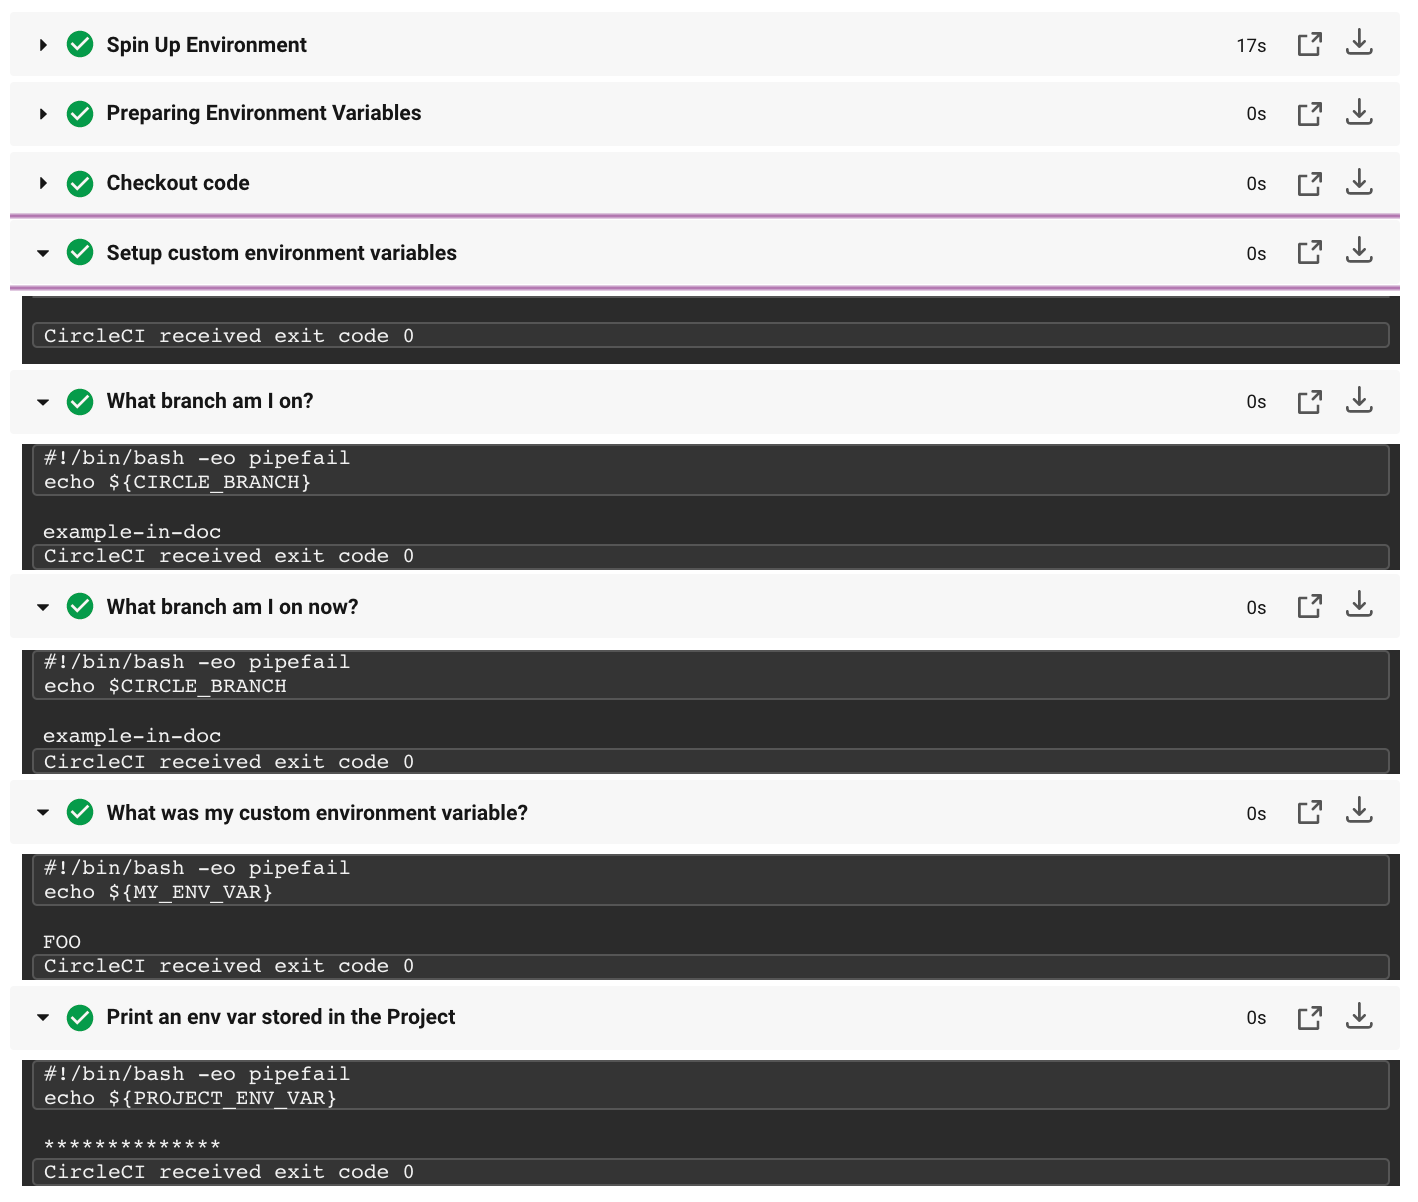
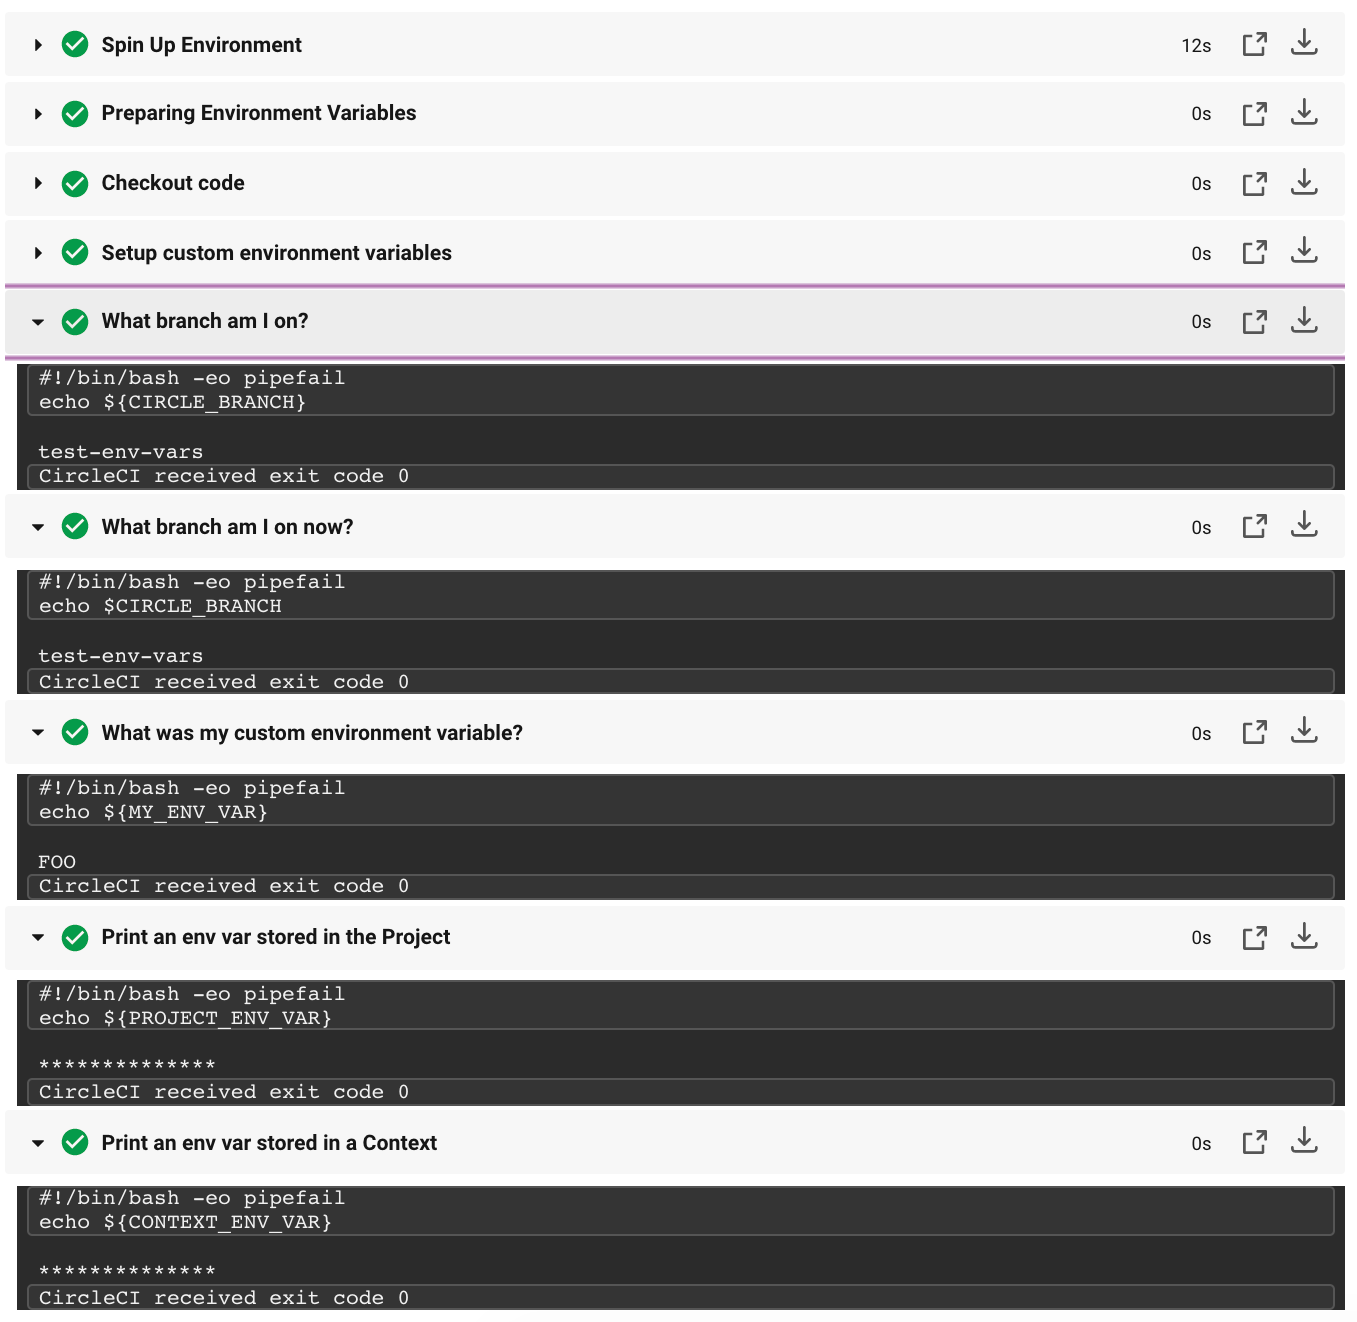
update full example to include a context

diff --git a/jekyll/_cci2/env-vars.md b/jekyll/_cci2/env-vars.md
@@ -19,13 +19,9 @@ There are several ways to use environment variables in CircleCI to provide varie
 
 To add **private keys** or **secret environment variables** for use throughout your private project, use the Environment Variables page under Project Settings in the CircleCI application. The variable values are neither readable nor editable in the app after they are set. To change the value of an environment variable, delete the current variable and add it again with the new value.
 
-![Environment Variables]({{ site.baseurl }}/assets/img/docs/project-settings-env-var-v2.png)
-
 Private environment variables enable you to store secrets safely even when your project is public, see [Building Open Source Projects]({{ site.baseurl }}/2.0/oss/) for associated settings information. 
 
 Use Contexts to further restrict access to environment variables. Contexts are set from the Organization Settings in the CircleCI application. For more information refer to the [Restricting a Context]({{ site.baseurl }}/2.0/contexts/#restricting-a-context) documentation.
-
-![Contexts]({{ site.baseurl }}/assets/img/docs/org-settings-contexts-v2.png)
 
 ## Secrets Masking
 
@@ -41,48 +37,6 @@ The value of the environment variable will not be masked in the build output if:
 ## Environment Variable Usage Options
 
 CircleCI uses Bash, which follows the POSIX naming convention for environment variables. Valid characters include letters (uppercase and lowercase), digits, and the underscore. The first character of each environment variable must be a letter.
-
-Secrets and private keys that are securely stored in the CircleCI app may be referenced with the variable in the following ways:
-
-* A `run` key
-
-  ```yaml
-  version: 2.1
-
-  workflows:
-    env-var-workflow:
-      jobs:
-        - env-var
-        
-  jobs:
-    env-var:
-      docker:
-        - image: cimg/base:2020.01
-      steps:
-        - checkout
-        - run: echo $MY_ENV_VAR # env var MY_ENV_VAR must be defined under Project Settings
-    ```
-
-* Workflows `context` key
-
-    ```yaml
-    version: 2.1
-
-    workflows:
-      env-var-workflow:
-        jobs:
-          - env-var:
-              context: Testing-Env-Vars # Use all env vars associated with this Context
-              
-          
-    jobs:
-      env-var:
-        docker:
-          - image: cimg/base:2020.01
-        steps:
-          - checkout
-          - run: echo $MY_ENV_VAR # env var MY_ENV_VAR must be defined under the context specified above
-    ```
 
 ### Order of Precedence
 {:.no_toc}
@@ -102,10 +56,11 @@ Environment variables declared inside a shell command `run step`, for example `F
 ![Env Var Order]({{ site.baseurl }}/assets/img/docs/env-var-order.png)
 
 #### Notes on Security
-Do not add secrets or keys inside the `.circleci/config.yml` file. The full text of `config.yml` is visible to developers with access to your project on CircleCI. Store secrets or keys in [project](#setting-an-environment-variable-in-a-project) or [context]({{ site.baseurl }}/2.0/contexts/) settings in the CircleCI app. For more information, see the [Encryption]({{ site.baseurl }}/2.0/security/#encryption) section of the Security document.
+{:.no_toc}
+
+Do not add secrets or keys inside the `.circleci/config.yml` file. The full text of `config.yml` is visible to developers with access to your project on CircleCI. Store secrets or keys in [project](#setting-an-environment-variable-in-a-project) or [context](#setting-an-environment-variable-in-a-context) settings in the CircleCI app. For more information, see the [Encryption]({{ site.baseurl }}/2.0/security/#encryption) section of the Security document.
 
 Running scripts within configuration may expose secret environment variables. See the [Using Shell Scripts]({{ site.baseurl }}/2.0/using-shell-scripts/#shell-script-best-practices) document for best practices for secure scripts.
-
 
 ### Example Configuration of Environment Variables
 {:.no_toc}
@@ -126,8 +81,7 @@ jobs: # basic units of work in a run
       # Redirect MY_ENV_VAR into $BASH_ENV
       - run: 
           name: "Setup custom environment variables"
-          command: |
-            echo 'export MY_ENV_VAR="FOO"' >> $BASH_ENV
+          command: echo 'export MY_ENV_VAR="FOO"' >> $BASH_ENV
       - run: # print the name of the branch we're on
           name: "What branch am I on?"
           command: echo ${CIRCLE_BRANCH}
@@ -142,11 +96,15 @@ jobs: # basic units of work in a run
       - run:
           name: "Print an env var stored in the Project"
           command: echo ${PROJECT_ENV_VAR}
+      - run:
+          name: "Print an env var stored in a Context"
+          command: echo ${CONTEXT_ENV_VAR}
 
 workflows: # a single workflow with a single job called build
   build:
     jobs:
       - build
+          context: Testing-Env-Vars
 ```
 
 The above `config.yml` demonstrates the following: 
@@ -160,10 +118,9 @@ When the above config runs, the output looks like this, notice the env var store
 
 ![Env Vars Interpolation Example]({{site.baseurl}}/assets/img/docs/env-vars-example-ui.png)
 
-You may have noticed that there are two similar steps in the above image and config - "What branch am I on?". These steps illustrate two different methods to read environment variables. Note that both `${VAR}` and `$VAR` syntaxes are supported. You can read more about shell parameter expansion in the [Bash documentation](https://www.gnu.org/software/bash/manual/bashref.html#Shell-Parameter-Expansion).
+Notice there are two similar steps in the above image and config - "What branch am I on?". These steps illustrate two different methods to read environment variables. Note that both `${VAR}` and `$VAR` syntaxes are supported. You can read more about shell parameter expansion in the [Bash documentation](https://www.gnu.org/software/bash/manual/bashref.html#Shell-Parameter-Expansion).
 
-### Using `BASH_ENV` to Set Environment Variables
-{:.no_toc}
+### Using Parameters and $BASH_ENV
 
 CircleCI does not support interpolation when setting environment variables. All defined values are treated literally. This can cause issues when defining `working_directory`, modifying `PATH`, and sharing variables across multiple `run` steps.
 
@@ -173,11 +130,26 @@ In the example below, `$ORGNAME` and `$REPONAME` will not be interpolated.
 working_directory: /go/src/github.com/$ORGNAME/$REPONAME
 ```
 
-**TODO: SWITCH THIS SECTION ROUND TO SHOW 2.1 AS THE BEST PRACTICE EXAMPLE**
+Using `version:2.1` config, you can reuse pieces of config across your  `config.yml`. By using the `parameters` declaration, you can interpolate (or, "pass values") into reusable `commands` `jobs` and `executors`:
 
-There are several workarounds to interpolate values into your config.
+```yaml
+version: 2.1
 
-If you are using **CircleCI 2.1**, you can reuse pieces of config across your  `config.yml`. By using the `parameters` declaration, you can interpolate (or, "pass values") into reusable `commands` `jobs` and `executors`. Consider reading the documentation on [using the parameters declaration]({{ site.baseurl }}/2.0/reusing-config/#using-the-parameters-declaration).
+jobs:
+  parameters:
+    org_name:
+      type: string
+      default: my_org
+    repo_name:
+      type: string
+      default: my_repo
+  my_job:
+    docker:
+      - circleci/node:12.15.0
+    working_directory: /go/src/github.com/<< parameters.org_name >>/<< parameters.repo_name >>
+```
+
+Consider reading the documentation on [using the parameters declaration]({{ site.baseurl }}/2.0/reusing-config/#using-the-parameters-declaration).
 
 Another possible method to interpolate values into your config is to use a `run` step to export environment variables to `BASH_ENV`, as shown below.
 
@@ -204,6 +176,8 @@ An image that's based on [Alpine Linux](https://alpinelinux.org/) (like [docker]
 To use environment variables with `ash`, just add these 2 parameters to your job.
 
 ```yaml
+version: 2.1
+
 jobs:
   build:    
     shell: /bin/sh -leo pipefail
@@ -216,7 +190,8 @@ jobs:
 While CircleCI does not support interpolation when setting environment variables, it is possible to set variables for the current shell by [using `BASH_ENV`](#using-bash_env-to-set-environment-variables). This is useful for both modifying your `PATH` and setting environment variables that reference other variables.
 
 ```yaml
-version: 2
+version: 2.1 
+
 jobs:
   build:
     docker:
@@ -240,7 +215,8 @@ For more information, refer to your shell's documentation on setting environment
 To set an environment variable in a step, use the [`environment` key]({{ site.baseurl }}/2.0/configuration-reference/#run).
 
 ```yaml
-version: 2
+version: 2.1
+
 jobs:
   build:
     docker:
@@ -264,7 +240,8 @@ to be accessible in more than one step, export the value [using `BASH_ENV`](#usi
 To set an environment variable in a job, use the [`environment` key]({{ site.baseurl }}/2.0/configuration-reference/#job_name).
 
 ```yaml
-version: 2
+version: 2.1
+
 jobs:
   build:
     docker:
@@ -278,7 +255,8 @@ jobs:
 To set an environment variable in a container, use the [`environment` key]({{ site.baseurl }}/2.0/configuration-reference/#docker--machine--macos--windows-executor).
 
 ```yaml
-version: 2
+version: 2.1 
+
 jobs:
   build:
     docker:
@@ -293,7 +271,8 @@ jobs:
 The following example shows separate environment variable settings for the primary container image (listed first) and the secondary or service container image.
 
 ```yaml
-version: 2
+version: 2.1
+
 jobs:
   build:
     docker:
@@ -308,6 +287,9 @@ jobs:
 ## Setting an Environment Variable in a Context
 
 1. In the CircleCI application, go to your organization settings by clicking the link in the left hand navigation.
+
+    ![Contexts]({{ site.baseurl }}/assets/img/docs/org-settings-contexts-v2.png)
+
 2. Select the Context you want to associate your envorinment variable with, or create a new one by clicking the Create Context button.
 3. Click Add Environment Variable and enter a name and value.
 4. Use your new environment variable in your `.circleci/config.yml` once the context is added under the workflows key, as follows:
@@ -338,9 +320,32 @@ Creating a context allows you to share environment variables across multiple pro
 ## Setting an Environment Variable in a Project
 
 1. In the CircleCI application, go to your project's settings by clicking the gear icon on the Pipelines page, por the three dots on other pages in the application.
+   
+    ![Environment Variables]({{ site.baseurl }}/assets/img/docs/project-settings-env-var-v2.png)
+
 2. Click on Environment Variables.
 3. Add new variables by clicking the Add Variable button and enter a name and value.
-4. Use your new environment variables in your `.circleci/config.yml` file. For an example, see the [Heroku deploy walkthrough]({{ site.baseurl }}/2.0/deployment-examples/#heroku).
+4. Use your new environment variables in your `.circleci/config.yml` as follows:
+   
+```yaml
+version: 2.1
+
+workflows:
+  test-env-vars:
+    jobs:
+      - build
+
+jobs:
+  build:
+    docker:
+      - image: cimg/base:2020.01
+    steps:
+      - checkout
+      - run: 
+          name: "echo an env var that is part of our project"
+          command: |
+            echo $MY_ENV_VAR # this env var must be swt within the project
+```
 
 Once created, environment variables are hidden and uneditable in the application. Changing an environment variable is only possible by deleting and recreating it.
 
@@ -371,7 +376,31 @@ Login Succeeded
 **Note:**
 Not all command-line programs take credentials in the same way that `docker` does.
 
-## Injecting Environment Variables with the API
+## Injecting Environment Variables with API v2
+
+Pipeline parameters can be used to inject environment variables using the CircleCI API v2. 
+
+```sh
+"parameters": {
+    "foo": "bar",
+    "baz": 5,
+    "qux": {"quux": 1},
+    "list": ["a", "list", "of", "strings"]
+   }
+```
+
+Your pipeline will see the environment variables:
+
+```sh
+export foo="bar"
+export baz="5"
+export qux="{\"quux\": 1}"
+export list="[\"a\", \"list\", \"of\", \"strings\"]"
+```
+
+**IMPORTANT** Pipeline parameters are not treated as sensitive data and must not be used by customers for sensitive values (secrets). You can find this sensitive information in [Project Settings](https://circleci.com/docs/2.0/settings/) and [Contexts](https://circleci.com/docs/2.0/glossary/#context).
+
+## Injecting Environment Variables with API v1
 
 Build parameters are environment variables, therefore their names have to meet the following restrictions:
 
